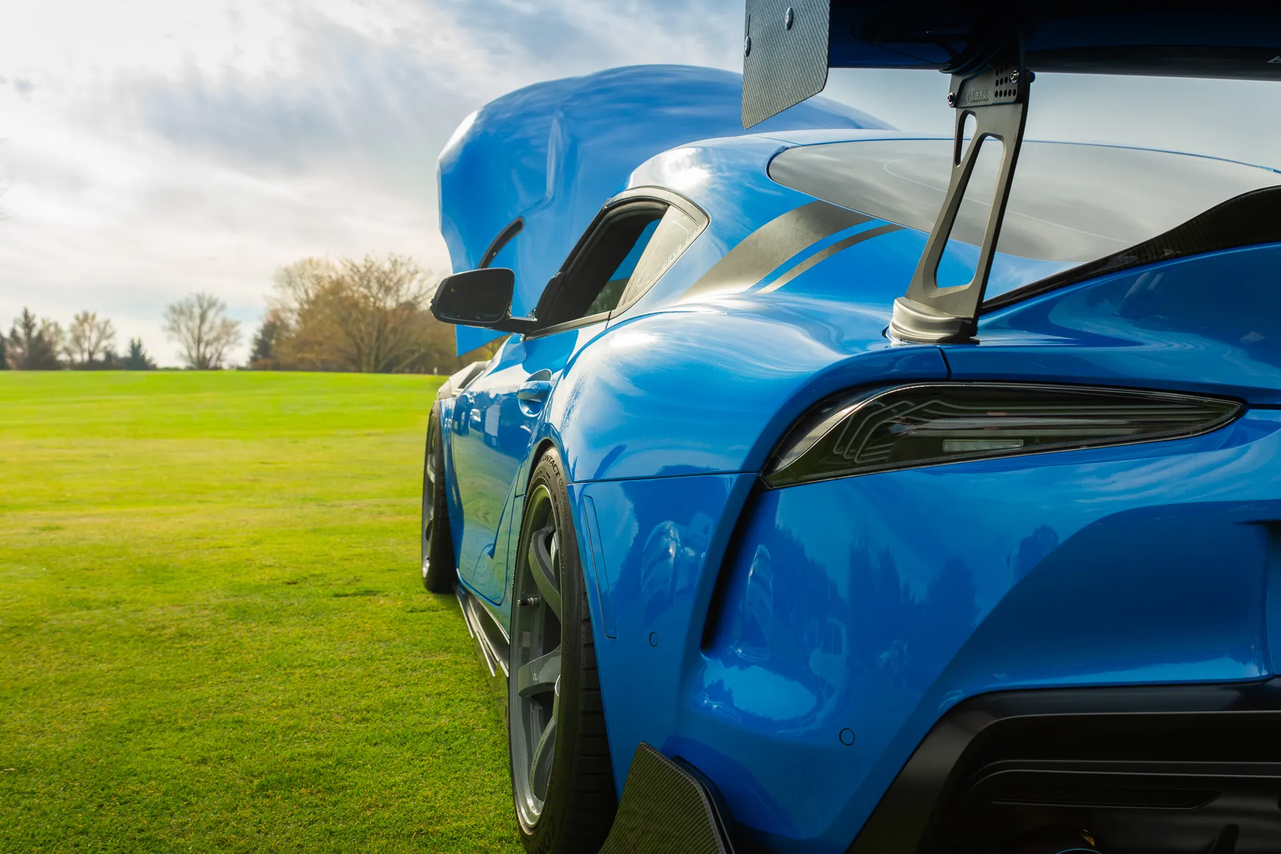
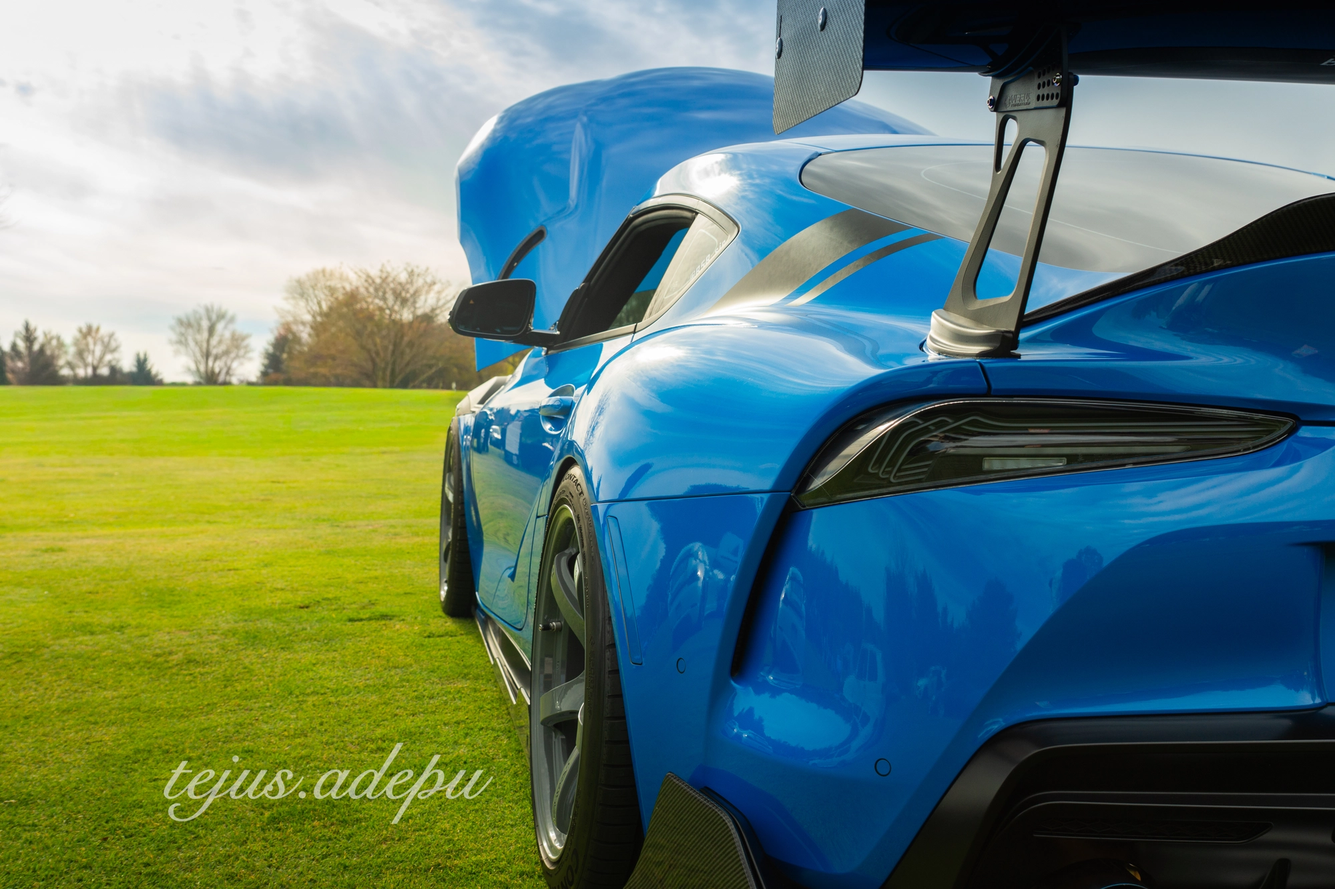
imported all + adjusted compression settings

Changed region(s): [[0.125, 0.8438, 0.375, 0.9375]]

diff --git a/scripts/compress-gallery.js b/scripts/compress-gallery.js
@@ -28,8 +28,8 @@ function processFolder(folderPath, relativePath = "") {
       );
 
       sharp(fullPath)
-        .resize({ width: 1920 })   // optional: resize max width
-        .webp({ quality: 80 })     // compress to 80%
+        .resize({ width: 2000 })   // optional: resize max width
+        .webp({ quality: 100 })     // compress to 80%
         .toFile(outPath)
         .then(() => console.log(`Processed: ${outPath}`))
         .catch(console.error);
